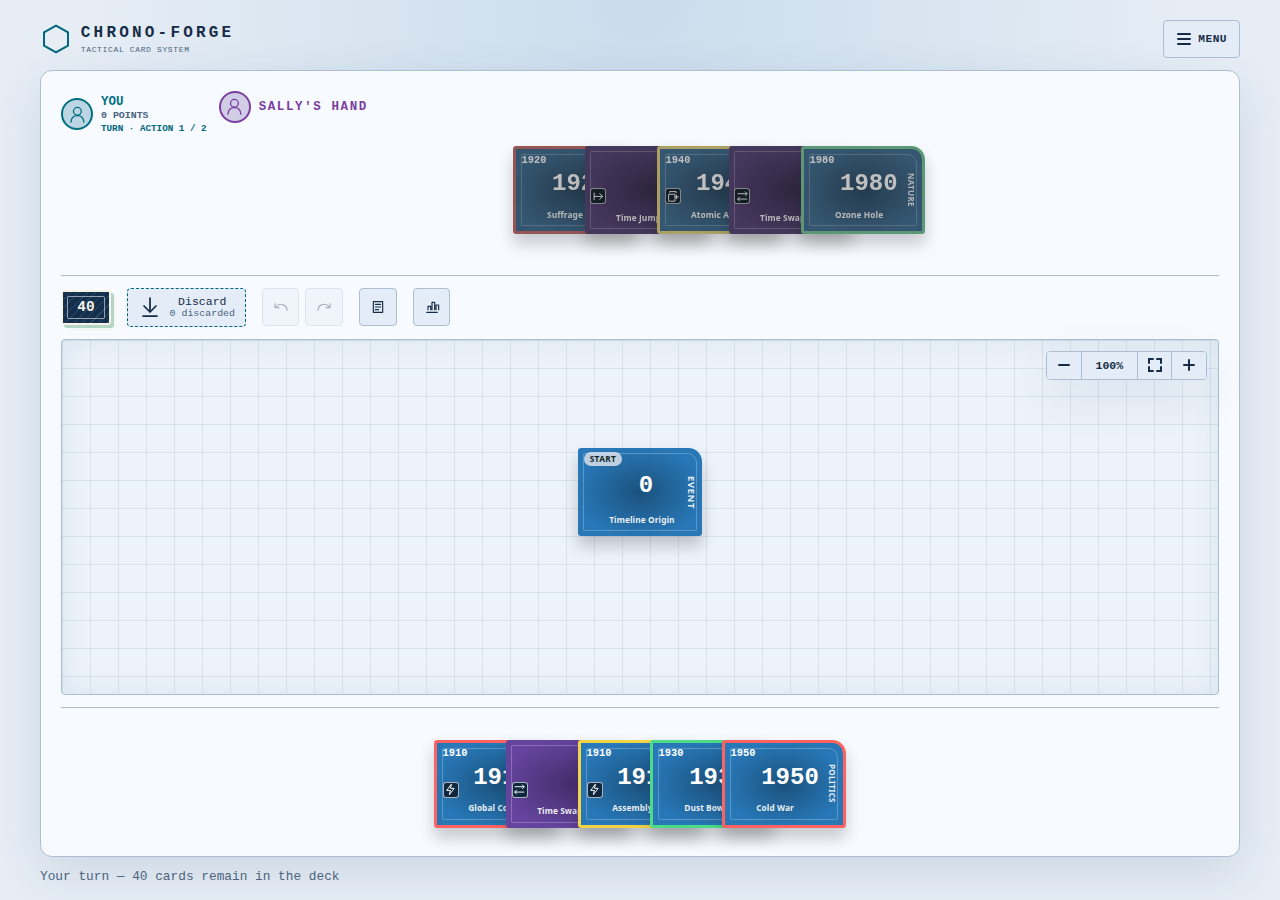
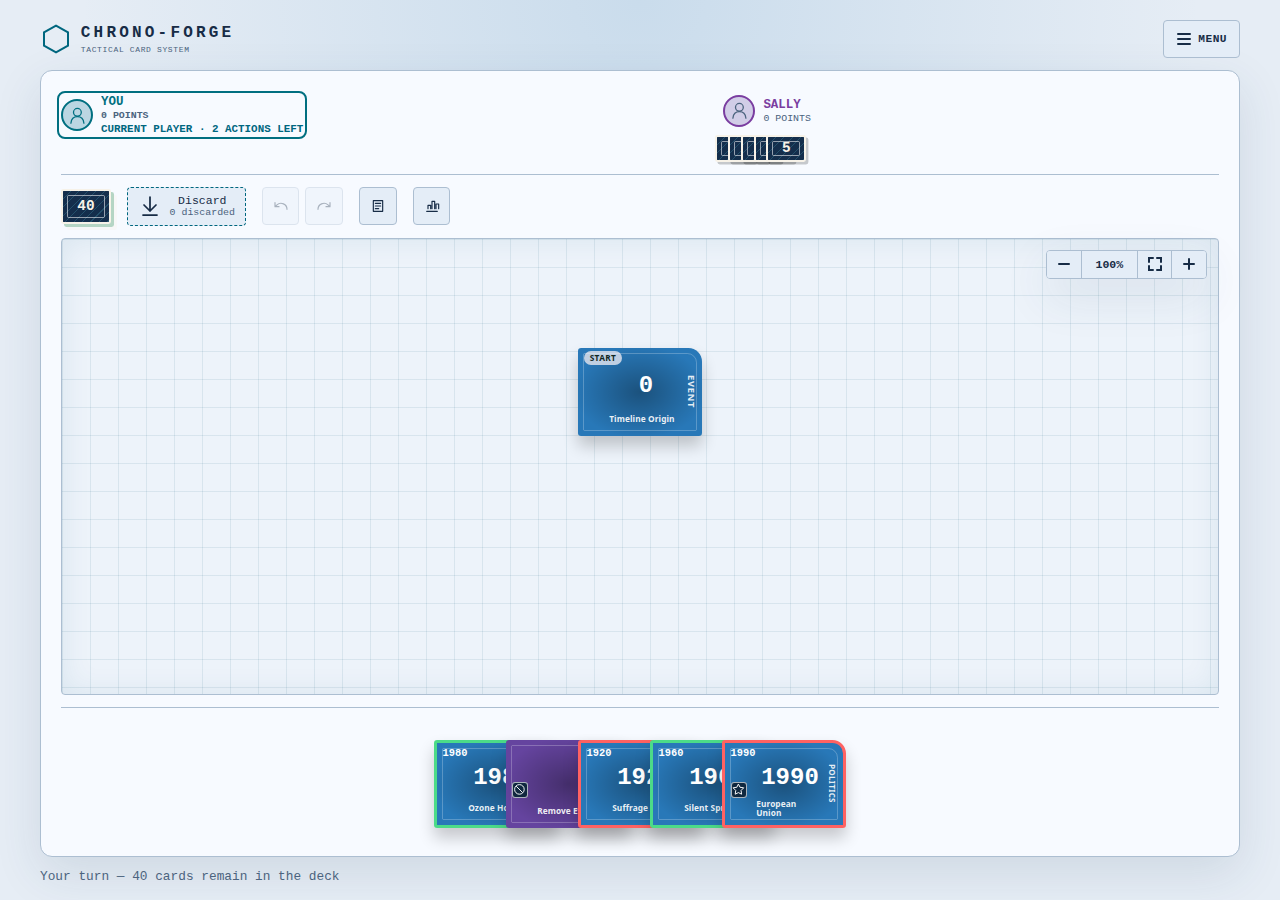
fix(ui): hide opponent cards and show actions remaining
Show only the hand count for other players. Mark the current player and actions left.

diff --git a/src/components/GameBoardPlayers.tsx b/src/components/GameBoardPlayers.tsx
@@ -1,10 +1,9 @@
 import clsx from 'clsx';
 import { FormattedMessage } from 'react-intl';
 
-import type { Card, CardGameState, CardOwner, PlayerId } from '../game';
+import type { CardGameState, PlayerId } from '../game';
 import gameBoardStyles from '../GameBoard.module.css';
 import { getPlayer, type PlayerSetup } from '../playerSetup';
-import { CardHand } from './CardHand';
 import { ComputerPlayer } from './ComputerPlayer';
 import ownershipStyles from './Ownership.module.css';
 import { PlayerAvatar } from './PlayerAvatar';
@@ -13,44 +12,24 @@ type GameBoardPlayersProps = {
   actionsThisTurn: number;
   activeOwner: PlayerId;
   cards: CardGameState['hands'];
-  draggedPendingCard: boolean;
   finished: boolean;
   handOwner: PlayerId;
   handPlayer: PlayerSetup;
-  onChooseCard: (cardId: string) => void;
-  onDragEnd: () => void;
-  onDragOver: (event: React.DragEvent<HTMLElement>) => void;
-  onDragStart: (event: React.DragEvent<HTMLElement>, cardId: string) => void;
-  onDrop: (event: React.DragEvent<HTMLElement>) => void;
-  onShowDetails: (card: Card) => void;
-  pendingCardId?: string;
-  pendingOwner?: CardOwner;
   playerIds: PlayerId[];
   players: PlayerSetup[];
   scores: Record<string, number>;
-  selectedCardId: null | string;
 };
 
 export function GameBoardPlayers({
   actionsThisTurn,
   activeOwner,
   cards,
-  draggedPendingCard,
   finished,
   handOwner,
   handPlayer,
-  onChooseCard,
-  onDragEnd,
-  onDragOver,
-  onDragStart,
-  onDrop,
-  onShowDetails,
-  pendingCardId,
-  pendingOwner,
   playerIds,
   players,
   scores,
-  selectedCardId,
 }: GameBoardPlayersProps) {
   return (
     <div className={gameBoardStyles.opponentHand} data-player-row>
@@ -79,9 +58,9 @@ export function GameBoardPlayers({
                 {activeOwner === handOwner && !finished && (
                   <span className={gameBoardStyles.playerTurn}>
                     <FormattedMessage
-                      defaultMessage="Turn · Action {count, number} / 2"
-                      id="turn.action"
-                      values={{ count: actionsThisTurn + 1 }}
+                      defaultMessage="Current player · {count, plural, one {# action left} other {# actions left}}"
+                      id="turn.remaining"
+                      values={{ count: Math.max(0, 2 - actionsThisTurn) }}
                     />
                   </span>
                 )}
@@ -92,7 +71,7 @@ export function GameBoardPlayers({
 
         const player = getPlayer(players, id);
 
-        return player.type === 'computer' ? (
+        return (
           <ComputerPlayer
             actionsThisTurn={actionsThisTurn}
             active={activeOwner === id && !finished}
@@ -101,26 +80,6 @@ export function GameBoardPlayers({
             player={player}
             score={scores[id] ?? 0}
           />
-        ) : (
-          <div className={gameBoardStyles.computerHand} key={id}>
-            <CardHand
-              activeOwner={activeOwner}
-              cards={cards[id]}
-              interactive={false}
-              isReturnTarget={draggedPendingCard && pendingOwner === id}
-              onChoose={onChooseCard}
-              onDragEnd={onDragEnd}
-              onDragOver={onDragOver}
-              onDragStart={onDragStart}
-              onDrop={onDrop}
-              onShowDetails={onShowDetails}
-              owner={id}
-              ownerName={player.name}
-              pendingCardId={pendingCardId}
-              playerType={player.type}
-              selectedCardId={selectedCardId}
-            />
-          </div>
         );
       })}
     </div>

diff --git a/src/App.test.tsx b/src/App.test.tsx
@@ -36,6 +36,9 @@ describe(App, () => {
       game: { ...createCardGame('0'), seed: 'saved-game-seed' },
       numPlayers: 2,
     });
+    const players = createDefaultPlayers().map((player) =>
+      player.id === '1' ? { ...player, type: 'human' } : player,
+    );
 
     vi.stubGlobal('localStorage', {
       getItem: (key: string) =>
@@ -44,7 +47,7 @@ describe(App, () => {
               initialState: client.getInitialState(),
               log: [],
               numPlayers: 2,
-              players: createDefaultPlayers(),
+              players,
               replayPaused: false,
               seed: 'saved-game-seed',
               startingPlayer: '0',
@@ -81,7 +84,7 @@ describe(App, () => {
           '[data-player-score="0"][data-current-turn="true"] > div > span:nth-of-type(2)',
         ),
       )
-      .toHaveTextContent('Turn · Action 1 / 2');
+      .toHaveTextContent('Current player · 2 actions left');
     expect(
       page.getByCSS(
         '[data-player-row] > [data-player-score="0"] + [data-player-score="1"]',
@@ -90,6 +93,12 @@ describe(App, () => {
     expect(
       page.getByCSS('[data-player-score="0"] [aria-label="You, human"]'),
     ).toHaveLength(1);
+    expect(
+      page.getByCSS('[data-player-score="1"] [aria-label="5 cards in hand"]'),
+    ).toHaveLength(1);
+    expect(
+      page.getByCSS('[data-player-row] [data-hand-owner="1"]'),
+    ).toHaveLength(0);
     expect(
       page.getByCSS(
         '[aria-label="Your hand drop area"] [aria-label="You, human"]',

diff --git a/src/components/ComputerPlayer.test.tsx b/src/components/ComputerPlayer.test.tsx
@@ -13,20 +13,20 @@ const cards = [
 ] satisfies Card[];
 
 describe(ComputerPlayer, () => {
-  it('shows computer identity and score without revealing its cards', async () => {
+  it('shows a human player summary without revealing their cards', async () => {
     render(
       <IntlProvider locale="en" messages={messages}>
         <ComputerPlayer
           actionsThisTurn={1}
           active
           cards={cards}
-          player={{ id: '1', name: 'Sally', type: 'computer' }}
+          player={{ id: '1', name: 'Sally', type: 'human' }}
           score={3}
         />
       </IntlProvider>,
     );
 
-    expect(page.getByLabelText('Sally, AI')).toHaveLength(1);
+    expect(page.getByLabelText('Sally, human')).toHaveLength(1);
     await expect
       .element(page.getByText('Sally', { exact: true }))
       .toBeInTheDocument();
@@ -34,9 +34,9 @@ describe(ComputerPlayer, () => {
       .element(page.getByText('3 points', { exact: true }))
       .toBeInTheDocument();
     await expect
-      .element(page.getByText('Turn · Action 2 / 2'))
+      .element(page.getByText('Current player · 1 action left'))
       .toBeInTheDocument();
-    expect(page.getByLabelText('2 face-down cards')).toHaveLength(1);
+    expect(page.getByLabelText('2 cards in hand')).toHaveLength(1);
     await expect
       .element(page.getByText('2', { exact: true }))
       .toBeInTheDocument();

diff --git a/src/components/ComputerPlayer.tsx b/src/components/ComputerPlayer.tsx
@@ -65,9 +65,9 @@ export function ComputerPlayer({
           {active && (
             <span className={computerPlayerStyles.playerTurn}>
               <FormattedMessage
-                defaultMessage="Turn · Action {count, number} / 2"
-                id="turn.action"
-                values={{ count: actionsThisTurn + 1 }}
+                defaultMessage="Current player · {count, plural, one {# action left} other {# actions left}}"
+                id="turn.remaining"
+                values={{ count: Math.max(0, 2 - actionsThisTurn) }}
               />
             </span>
           )}
@@ -78,8 +78,8 @@ export function ComputerPlayer({
         aria-label={intl.formatMessage<{ readonly count: number | bigint }>(
           {
             defaultMessage:
-              '{count, plural, one {# face-down card} other {# face-down cards}}',
-            id: 'computer.hiddenCards',
+              '{count, plural, one {# card in hand} other {# cards in hand}}',
+            id: 'player.handCount',
           },
           { count: cards.length },
         )}

diff --git a/src/GameBoard.tsx b/src/GameBoard.tsx
@@ -644,24 +644,12 @@ export function GameBoard({ ctx, G, moves }: BoardProps<CardGameState>) {
           actionsThisTurn={G.actionsThisTurn}
           activeOwner={activeOwner}
           cards={G.hands}
-          draggedPendingCard={draggedCard?.source === 'pending'}
           finished={finished}
           handOwner={handOwner}
           handPlayer={handPlayer}
-          onChooseCard={chooseCard}
-          onDragEnd={finishDrag}
-          onDragOver={allowDrop}
-          onDragStart={(event, cardId) => {
-            beginDrag(event, cardId, 'hand');
-          }}
-          onDrop={returnCardToHand}
-          onShowDetails={showCardDetails}
-          pendingCardId={G.pending?.id}
-          pendingOwner={G.pending?.owner}
           playerIds={G.playerIds}
           players={players}
           scores={scores}
-          selectedCardId={selectedCardId}
         />
 
         <div className={gameBoardStyles.playArea}>

diff --git a/src/GameBoard.module.css b/src/GameBoard.module.css
@@ -98,6 +98,12 @@
   white-space: nowrap;
 }
 
+.opponent-hand [data-current-turn='true'] {
+  border-radius: 0.25rem;
+  outline: 2px solid var(--owner-foreground-color, var(--owner-color));
+  outline-offset: 2px;
+}
+
 .player-score > div {
   display: grid;
   gap: 0.1rem;
@@ -308,7 +314,7 @@
 
 .player-turn {
   color: var(--accent-text);
-  font-size: 0.58rem;
+  font-size: 0.68rem;
   font-weight: 800;
   white-space: nowrap;
 }

diff --git a/src/components/ComputerPlayer.module.css b/src/components/ComputerPlayer.module.css
@@ -43,7 +43,7 @@
 
 .identity .player-turn {
   color: var(--accent-text);
-  font-size: 0.58rem;
+  font-size: 0.68rem;
   font-weight: 800;
 }
 
